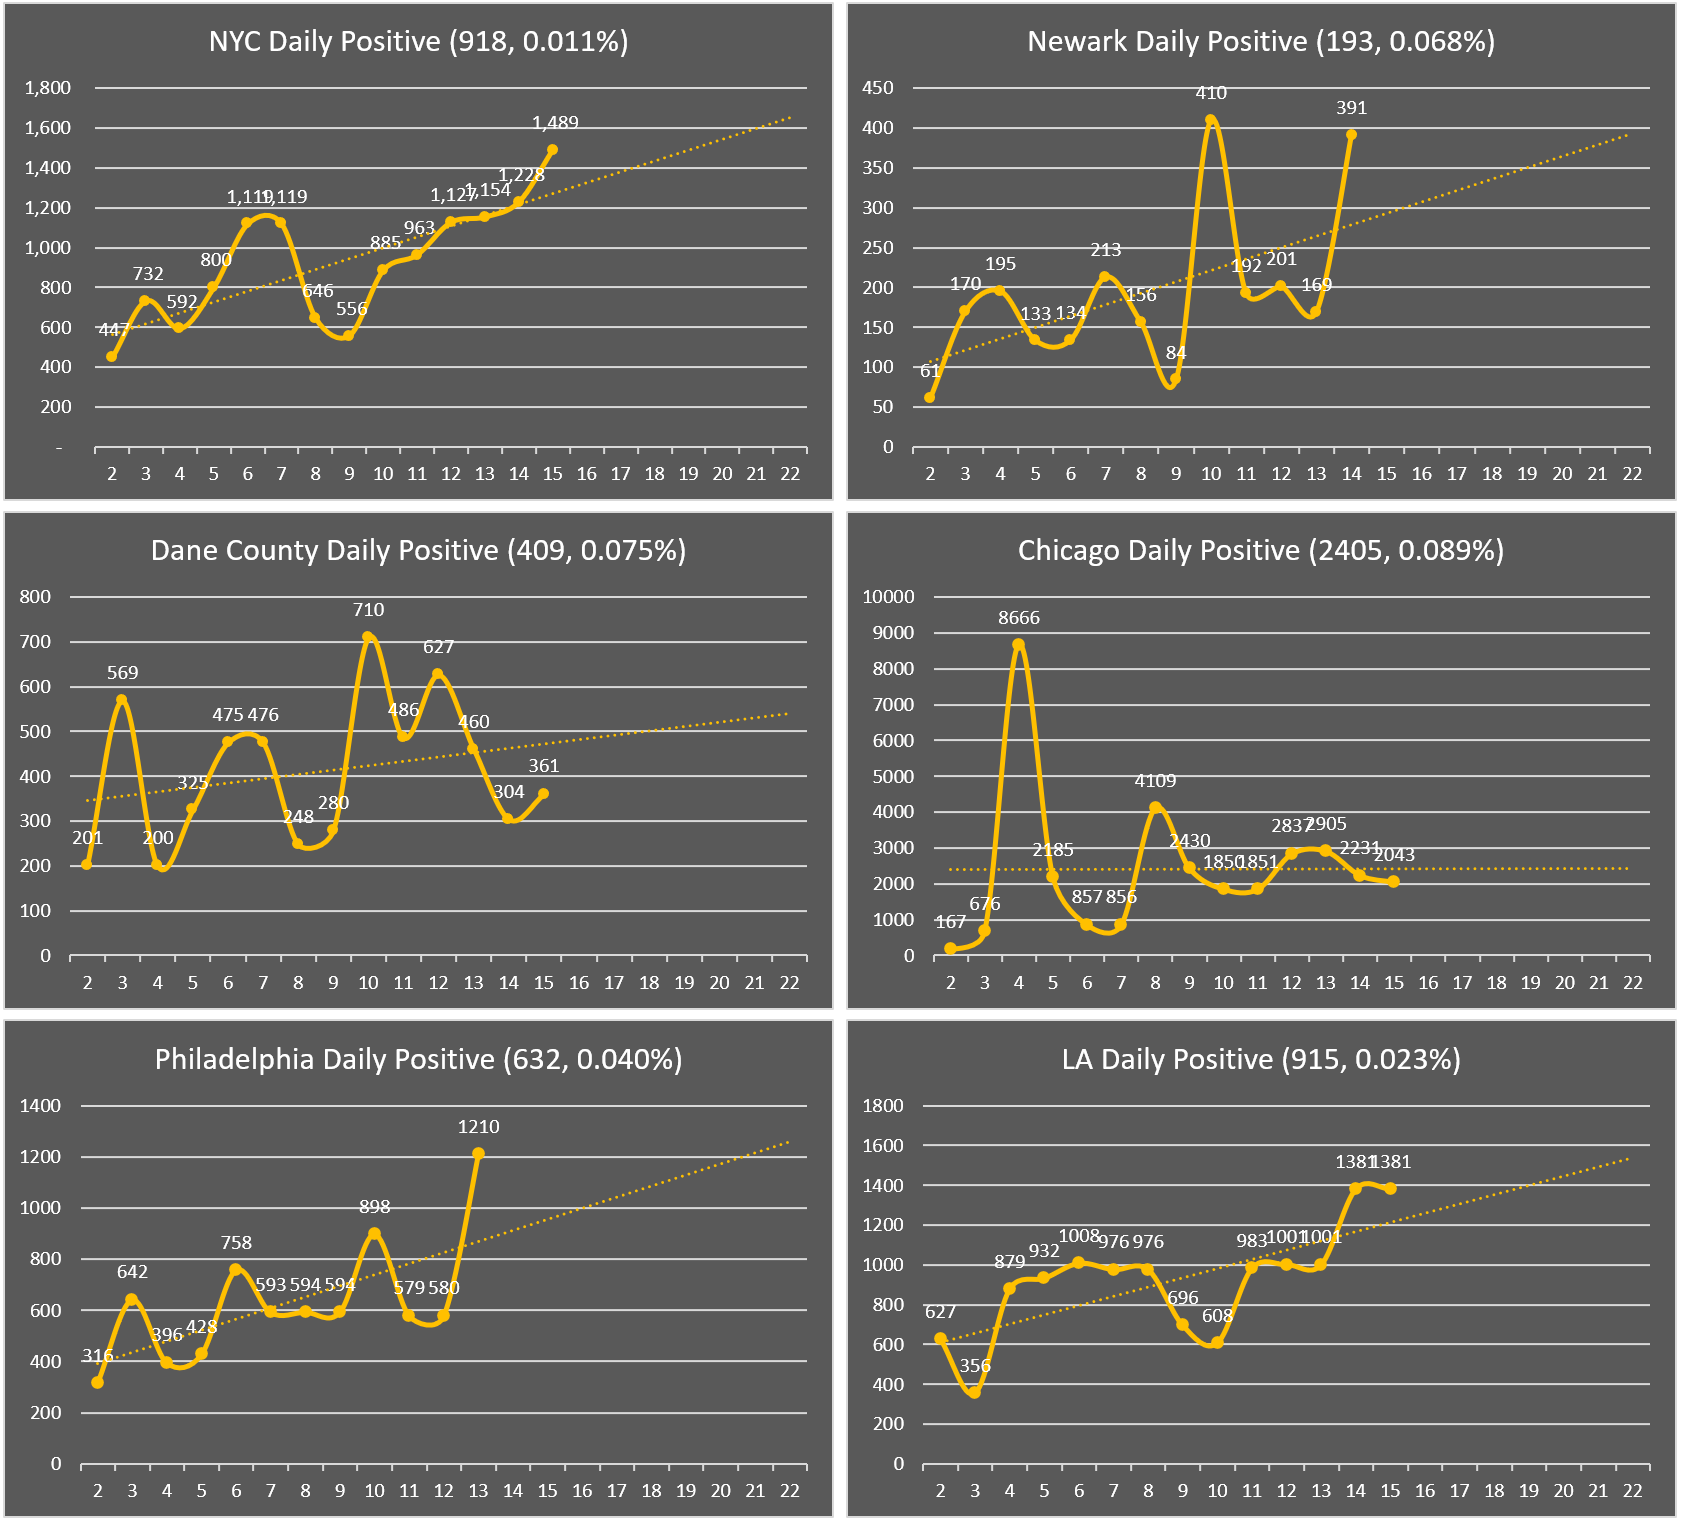
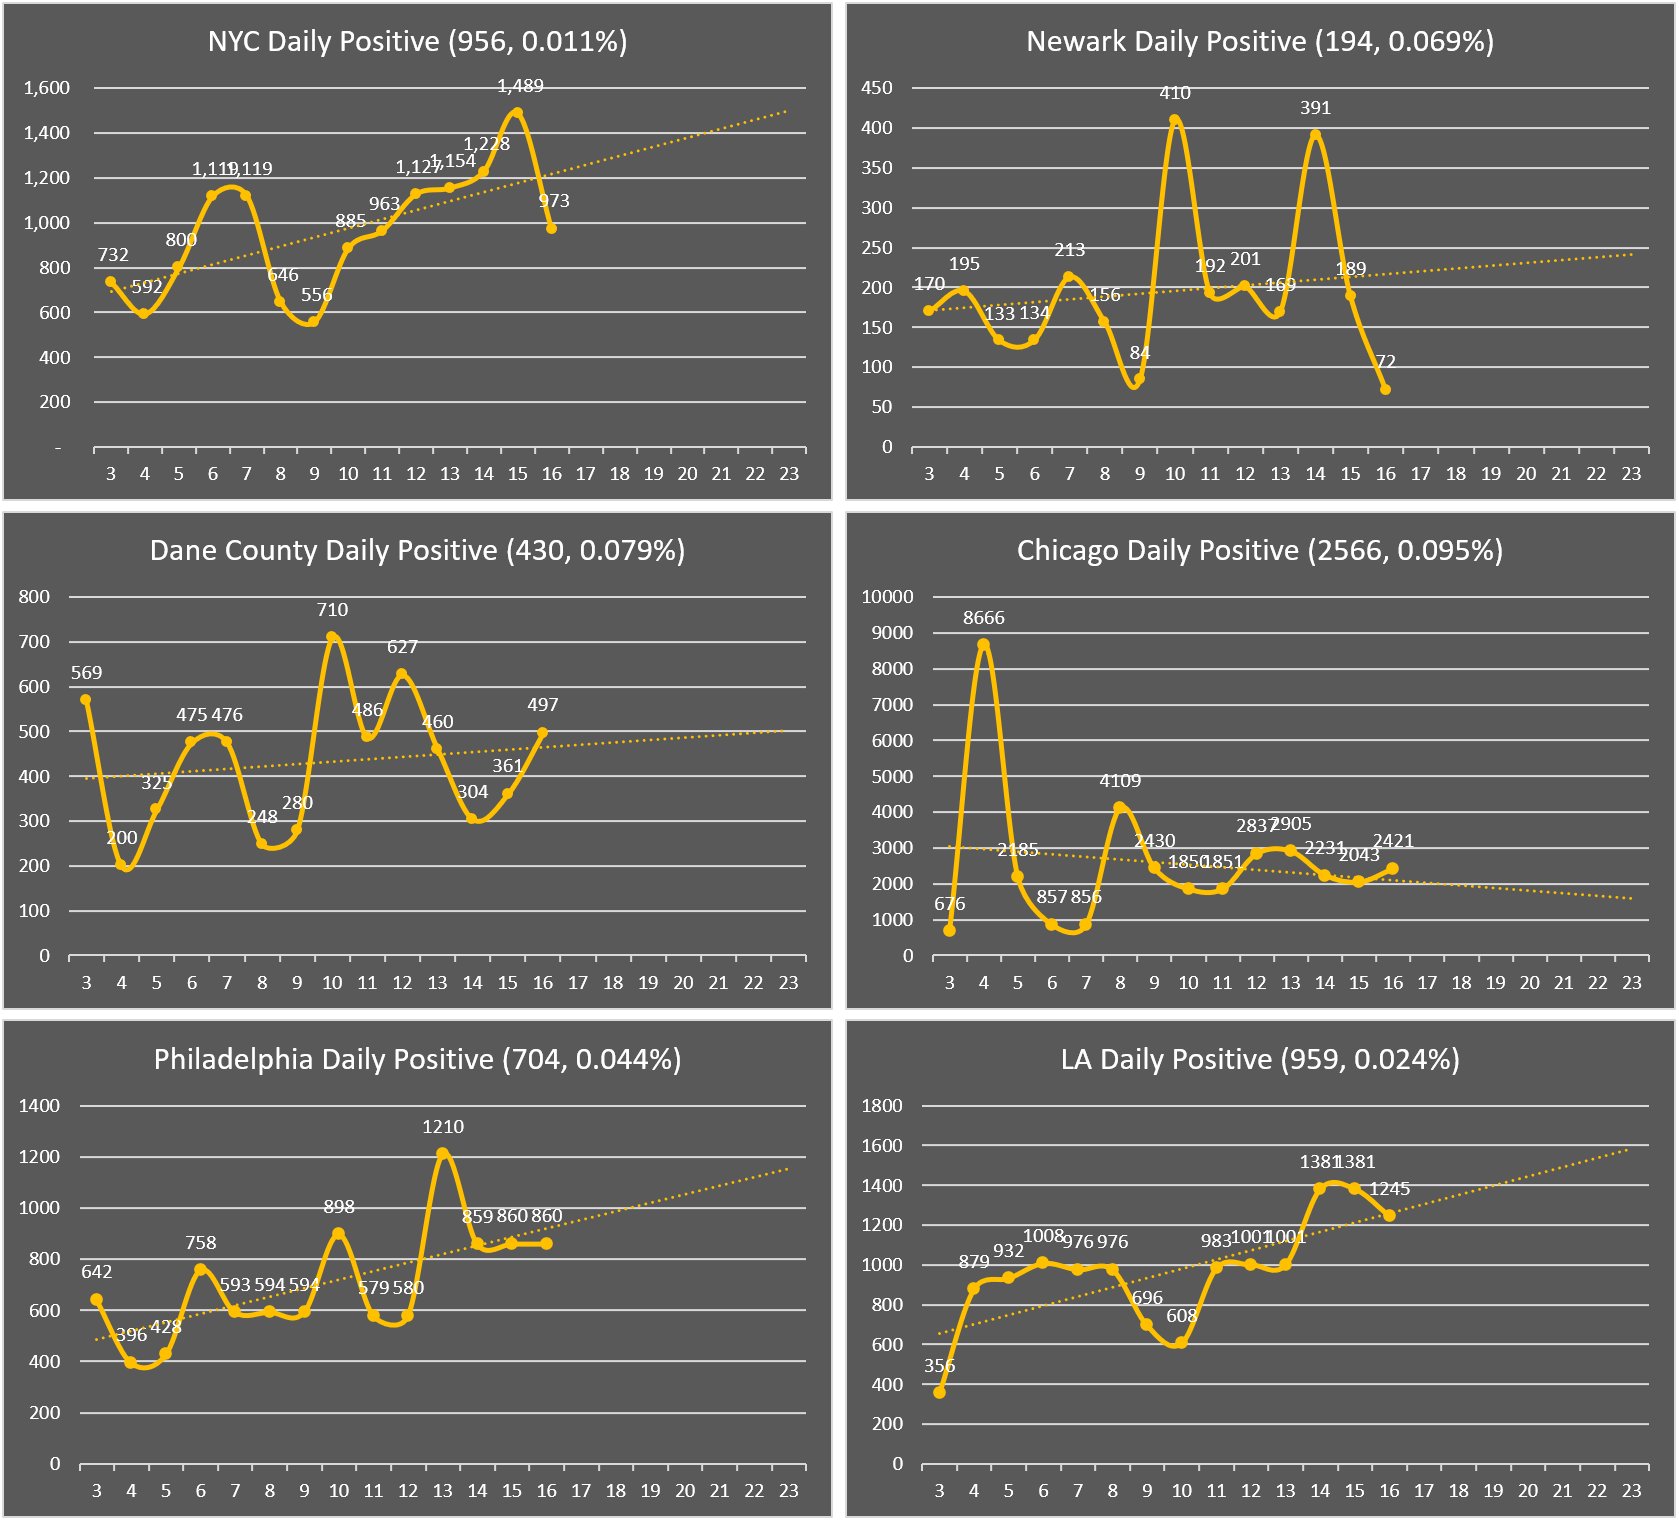
update 11/16 status

diff --git a/index.html b/index.html
@@ -19,7 +19,7 @@
 
 <body class="container-fluid">
 	<h1> CoronaV for Friends</h1>
-	<h2> Data updated at Nov 15 2020 EST 21:30</h2>
+	<h2> Data updated at Nov 17 2020 EST 02:10</h2>
 	<hr>
 	<main>
 		<div class="row">
